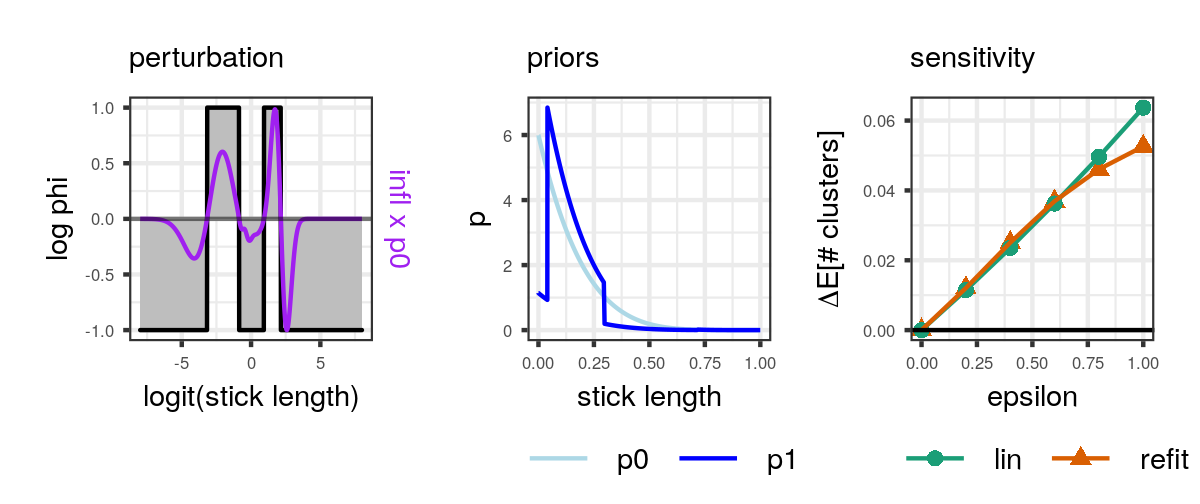
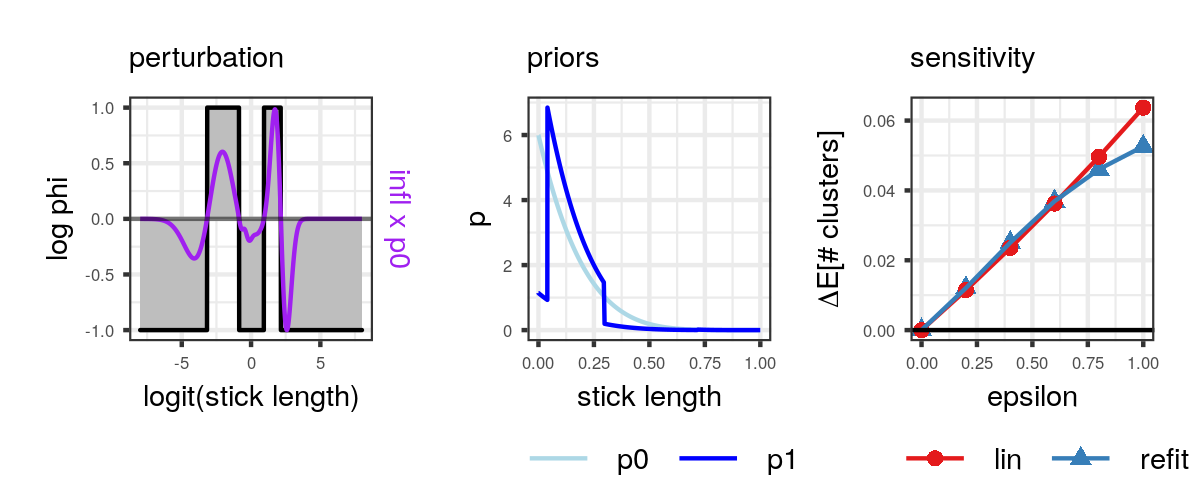
new function to make trace plots

diff --git a/writing/journal_paper/iris_experiments.tex b/writing/journal_paper/iris_experiments.tex
@@ -15,7 +15,8 @@ four measurements taken per flower:
 sepal length, sepal width, petal length, and petal width. 
 The generative model and variational approximation for the GMM 
 were detailed in 
-\exref{iris_bnp_process,iris_var_distr}, respectively. 
+\exref{iris_bnp_process,iris_var_distr}, respectively, 
+with data dimension $d = 4$ and truncation parameter $\kmax = 15$. 
 \figref{iris_fit} shows the GMM fit at $\alpha = 6$. 
 The data set contains three iris species, and
 the BNP model correspondingly identifies three dominant clusters. 
@@ -37,6 +38,7 @@ the BNP model correspondingly identifies three dominant clusters.
 
 
 \end{knitrout}
+
 
 We wish to evaluate the sensitivity of the expected number of clusters to the 
 stick-breaking distribution. 
@@ -71,57 +73,59 @@ $f(\cdot, \eta)$ that satisfies
   u \iid\normdist{0, I} \implies 
   f(u, \eta) \stackrel{d}{=} \nu \sim \q(\cdot | \eta).
 \end{align*}
-With $\nu$ being a vector of logit-normal random variables under $q$, 
-$f(\cdot ; \eta)$ is a function that scales and shifts the normal draws $u$ according to parameters in $\eta$;
+Since $\nu$ is a vector of logit-normal random variables under $q$, 
+we let $f(\cdot ; \eta)$ be a function that scales and shifts the normal draws $u$ according to parameters in $\eta$;
 it then applies the sigmoid function to the 
 scaled and shifted draws. 
 
 To form a Monte Carlo estimate of \eqref{post_pred_nclusters}, 
-we sampled $u_1, ..., u_m\stackrel{iid}{\sim}\normdist{0, I}$ 
+we sampled $u_1, \dots, u_m\stackrel{iid}{\sim}\normdist{0, I}$ 
 and then averaged the expression inside the expectation evaluated at points 
-$f(u_1, \eta), ..., f(u_m, \eta)$.
-We used the reparameterization trick so that conditional on $u_1, ..., u_m$,
+$f(u_1, \eta), \ldots, f(u_m, \eta)$.
+We used the reparameterization trick so that conditional on $u_1, \ldots, u_m$,
 our Monte Carlo estimate of $\gclusterspred$ is a determinstic function of 
 the variational parameters $\eta$. 
 In our experiments below, all displayed values of $\gclusterspred(\eta)$ are
 Monte Carlo approximations, 
-conditional on the same $m = 10,000$ draws $u_1, ..., u_m$, fixed a priori. 
+conditional on the same $m = 10,000$ draws $u_1, \ldots, u_m$, fixed a priori. 
 
-We evaluate the sensitivity of the posterior quantities 
+We first evaluate the sensitivity of the posterior quantities 
 $\gclusters$ and $\gclusterspred$ to the prior parameter $\alpha$. 
-We first fitted the initial approximate posterior at $\alpha_0 = 6$. 
-Subsequent refits at $\alpha\not=\alpha_0$ used the variational parameters
-$\etaopt(\alpha_0)$ as an initialization. 
-As $\alpha$ increases, both the expected in-sample and the expected predictive number of clusters increases (\figref{iris_alpha_sens}). 
-The in-sample quantity is insensitive to changes in the $\alpha$ parameter. 
-As $\alpha$ varies from $\alpha = 1, ..., 16$,
-the quantity $\gclusters(\etaopt(\alpha))$
-varies only from 
-3.0 to
+We fit the initial variational posterior at $\alpha_0 = 6$,
+and we formed the linear approximation (\eqref{vb_eta_sens}) at this initial fit. 
+Without further optimization, we use the linear approximation to quickly evaluate 
+$\etalin(\alpha)$ for all $\alpha = 1, \ldots, 16$ (\eqref{etalin_def}),
+and produce posterior quantites $g(\etalin(\alpha))$. 
+
+The in-sample quantity appears insensitive to changes in the $\alpha$ parameter
+(\figref{iris_alpha_sens}). 
+As $\alpha$ varies from $\alpha = 1, \ldots, 16$,
+the quantity $\gclusters(\etalin(\alpha))$
+varies only from 3.0 to
 3.4
 (recall that the true number of iris species is three). 
 On the other hand, the posterior preditive quantity is sensitive 
 to changes in $\alpha$.
-Over the same range of $\alpha$, $\gclusterspred(\etaopt(\alpha))$
+Over the same range of $\alpha$, $\gclusterspred(\etalin(\alpha))$
 varies from 
 3.6 to 
 8.1. 
 
-We formed the linear approximation at $\alpha = \alpha_0$ and computed
-the approximate variational parameters $\etalin(\alpha)$ at 
-$\alpha = 1, ..., 16$. 
-Substituting the linear approximation for the refitted variational parameters,
-$g(\etalin(\alpha))$ is able to mimic the changes 
-in both the in-sample and predictive quantities 
-found by refitting the model (\figref{iris_alpha_sens}).  
-Furthermore, the linear approximation is an order of magnitude faster than refitting. 
-Forming the linear approximation at $\alpha = \alpha_0$, required 0.02 seconds. 
+
+Subsequent refits at $\alpha\not=\alpha_0$ confirm sensitivity conclusions of the linear approximation. 
+Over the range $\alpha = 1, \ldots, 16$,
+the values $g(\etalin(\alpha))$ closely mimic the 
+values $g(\etaopt(\alpha))$ found by refitting 
+the variational parameters at each $\alpha$ (\figref{iris_alpha_sens}).
+Importantly, 
+the linear approximation is an order of magnitude faster than refitting. 
+Forming the linear approximation at $\alpha = \alpha_0$, 
+required 0.02 seconds. 
 After forming the linear approximation,
-computing $\etalin(\alpha)$ for all $\alpha = 1, ... 16$ took another 
+computing $\etalin(\alpha)$ for all $\alpha = 1, \ldots, 16$ took another 
 0.02 seconds.
 On the other hand, to refit $\etaopt(\alpha)$ for the same range of
-$\alpha$'s took a total of 10 seconds, 
-with a median refit time of 0.7 seconds. 
+$\alpha$'s took a total of  9 seconds, with a median refit time of 0.6 seconds. 
 
 
 
@@ -134,19 +138,19 @@ with a median refit time of 0.7 seconds.
 \begin{knitrout}
 \definecolor{shadecolor}{rgb}{0.969, 0.969, 0.969}\color{fgcolor}\begin{figure}[!h]
 
-{\centering \includegraphics[width=0.980\linewidth,height=0.392\linewidth]{figure/iris_alpha_sens-1} 
+{\centering \includegraphics[width=0.784\linewidth,height=0.439\linewidth]{figure/iris_alpha_sens-1} 
 
 }
 
 \caption[The expected number of clusters as $\alpha$ varies in the 
-the BNP-GMM fit of the iris data]{The expected number of clusters as $\alpha$ varies in the 
-the BNP-GMM fit of the iris data. 
-On the left is the sensitivity of the in-sample quantity.  
-On the right is the the predictive quantity. 
+the GMM fit of the iris data]{The expected number of clusters as $\alpha$ varies in the 
+the GMM fit of the iris data. 
+On the left is the sensitivity of the in-sample quantity $\gclusters$.  
+On the right is the the predictive quantity $\gclusterspred$. 
 We compute the linear approximation at $\alpha=6$ and
 extrapolate the expected number of clusters using the
-linear approximation (green).
-We compare against the expected number of clusters obtained by refitting the model at each $\alpha$ (orange). }\label{fig:iris_alpha_sens}
+linear approximation (red).
+We compare against the expected number of clusters obtained by refitting the model at each $\alpha$ (blue). }\label{fig:iris_alpha_sens}
 \end{figure}
 
 
@@ -169,7 +173,7 @@ on a posterior quantity.
 We consider functional perturbations of the form 
 $\log \phi_\mu(x) = e^{2(x - \mu)^2}$, with each perturbation having a 
 different mode $\mu$ (\figref{iris_fsens} left column). 
-The perturbations are multiplicative in form, 
+The perturbations are multiplicative with perturbed prior 
 $p(\nu_k|\epsilon) = p_0(\nu_k)\phi_\mu(\nu_k)^\epsilon$.
 The middle column of \figref{iris_fsens} displays the initial density,
 $p_0(\nu_k) = \betadist{\nu_k\vert 1, \alpha_0}$,
@@ -189,33 +193,36 @@ In each case, the approximation
 $\gclusters(\etalin(\epsilon)) - \gclusters(\etalin(0))$
 is able to mirror the qualitative behavior observed under refitting.
 
-TODO: depending on what has been said about influence functions before, we may need a more thorough discussion here. 
+\todo{depending on what has been said about influence functions before, we may need a more thorough discussion below}
 
-By examining the perturbed densities $p(\nu_k|\epsilon = 1)$ alone, 
-it is difficult to anticipate 
-its effect of a given perturbation on $\gclusters$. 
-However, the sign and magnitude of the change in $\gclusters$ 
-are well-explained by the influence function. 
-When $\log\phi_\mu$ is centered at a location where the influence function is negative, its effect on $\gclusters$ is negative (\figref{iris_fsens} top row); 
+While each perturbation produces distinct changes in $\gclusters$, 
+it is difficult to anticipate the effect of the perturbation 
+by comparing the original and perturbed densities alone. 
+However, the sign and magnitude of the change in $\gclusters$ after 
+prior perturbation are well-explained by its influence function
+(\figref{iris_fsens} left column). 
+When $\log\phi_\mu$ is centered at a location where the influence function is negative, the effect of the perturbation on $\gclusters$ 
+is negative (\figref{iris_fsens} top row); 
 conversely, when $\log\phi_\mu$ is centered at a location where the influence function is positive, its effect on $\gclusters$ is positive (bottom row); 
 finally, when $\log\phi_\mu$ is centered at a location where the influence transitions from negative to positive, its effect on
 $\gclusters$ is roughly zero (middle row). 
+In the last case, $\log\phi_\mu$ placed approximately equal weight on the negative and positive portions of the prior-weighted influence function, resulting in an approximately zero inner-product (\eqref{TODO}). 
 In the other data applications below, 
 the influence function will guide our choice of functional perturbaton and explain why some perturbations result in greater sensitivity than others. 
 
 Finally, we consider the 
-worst-case perturbation with unit $L_\infty$ norm.
+worst-case multiplicative perturbation with unit $L_\infty$ norm.
 Recall that the worst-case perturbation with unit $L_\infty$ norm is a 
 step-function taking on values $\pm1$ corresponding 
 to the sign of the influence function (\figref{iris_worstcase} left).  
 The middle column of \figref{iris_worstcase} shows the prior density perturbed by the worst-case perturbation; 
 the right column shows the effect on $\gclusters$. 
-We see that this worst-case perturbation has a much larger effect on
+This worst-case perturbation has a much larger effect on
 $\gclusters$ compared to the other unit $L_\infty$ norm perturbations in
 \figref{iris_fsens}. 
 However, even with the worst-case perturbation, 
-the change in $\gclusters$ is still small;
-we thus conclude that in the iris data set $\gclusters$ appears to be a quantity insensitive to the prior. 
+the change in $\gclusters$ is still small.
+We conclude that on the iris data set, $\gclusters$ appears to be a quantity insensitive to the prior under a Gaussian mixture model. 
 
 
 
@@ -231,12 +238,13 @@ we thus conclude that in the iris data set $\gclusters$ appears to be a quantity
         to three multiplicative perturbations with 
         unit $L_{\infty}$-norm 
         (Left) The log multiplicative perturbation $\log\phi$ in grey.        
-        In purple is the prior-weighted influence function, scaled to also have 
+        The prior-weighted influence function in purple, scaled to also have 
         unit $L_{\infty}$-norm. 
         (Middle) The original prior density $p_0$ and 
         the perturbed prior density $p_1 = p_0\times \phi$. 
         (Right) The effect of the perturbation 
-        on the change in expected number of clusters as a function of $\epsilon$. }\label{fig:iris_fsens}
+        on the change in expected number of in-sample clusters 
+        as $\epsilon$ varies. }\label{fig:iris_fsens}
 \end{figure}
 
 
@@ -273,9 +281,9 @@ we thus conclude that in the iris data set $\gclusters$ appears to be a quantity
 %     \hline 
 %     Hessian solve for $\alpha$ sensitivity & 
 %         sprintf('%1.2g', alpha_hess_time)\\
-%     Linear approx. $\eta^{lin}(\alpha)$ for $\alpha = 1, ... , 16$ & 
+%     Linear approx. $\eta^{lin}(\alpha)$ for $\alpha = 1, \ldots , 16$ & 
 %         sprintf('%1.2g', total_alpha_lr_time)\\
-%     Refits $\eta(\alpha)$ for $\alpha = 1, ... , 16$ & 
+%     Refits $\eta(\alpha)$ for $\alpha = 1, \ldots , 16$ & 
 %         sprintf('%1.2g', total_alpha_refit_time)\\
 %     \hline 
 %     The influence function & sprintf('%1.2g', infl_time)\\ 

diff --git a/writing/journal_paper/main.tex b/writing/journal_paper/main.tex
@@ -40,6 +40,11 @@
 \usepackage{listings}
 \usepackage{pdfpages}
 
+% added packages for todo notes
+% pass in option ``disable" to remove notes
+\usepackage[textsize=tiny]{todonotes}
+
+
 % This picks up the knitr boilerplate, allowing us to \input partial knitr
 % documents.
 \input{_knitr_header.tex}
